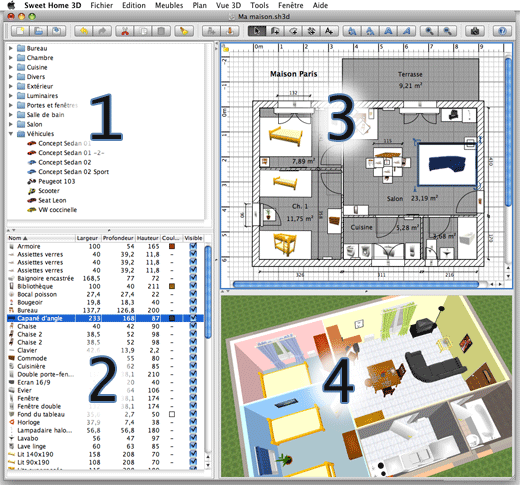
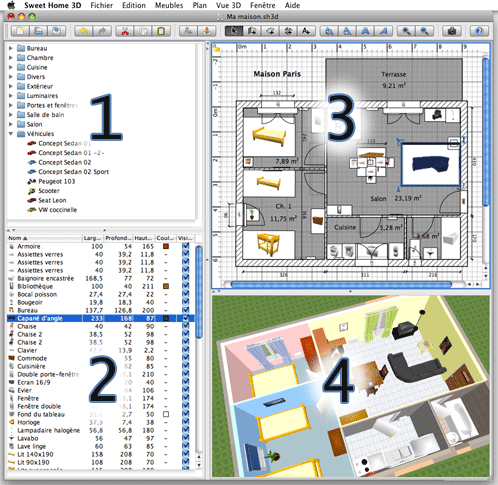
Removed delete from tool bar
git-svn-id: https://svn.code.sf.net/p/sweethome3d/code/trunk@2017 03e323e1-6c6c-46a5-9f71-c4ce5d8c6204

diff --git a/SweetHome3D/src/com/eteks/sweethome3d/viewcontroller/resources/help/cs/ui.html b/SweetHome3D/src/com/eteks/sweethome3d/viewcontroller/resources/help/cs/ui.html
@@ -26,7 +26,7 @@
           <table width="100%" border="0" cellspacing="0" cellpadding="3">
             <tr>
               <td><p>Program Sweet Home 3D disponuje čtyřmi pracovními okny, jejichž velikost si můžete nastavit dle vlastní potřeby, a které jsou popsány níže.</p>
-                <p align="center"><img src="../images/sweethome3dZones.png" alt="User Interface parts" width="520" height="485"></p></td>
+                <p align="center"><img src="../images/sweethome3dZones.png" alt="User Interface parts" width="498" height="485"></p></td>
             </tr>
           </table>
           <div id="taskbox">

diff --git a/SweetHome3D/src/com/eteks/sweethome3d/viewcontroller/resources/help/it/ui.html b/SweetHome3D/src/com/eteks/sweethome3d/viewcontroller/resources/help/it/ui.html
@@ -29,7 +29,7 @@
 			<TD>
 				<P>La finestra di Sweet Home 3D mostra il design interno di una singola casa, ed è divisa in quattro pannelli (i riquadri rettangolare
 			  che vedi nella finestra) liberamente ridimensionabili, descritti come segue.</P>
-				<P ALIGN=CENTER><IMG SRC="../images/sweethome3dZones.png" ALT="User Interface parts" ALIGN=BOTTOM WIDTH=520 HEIGHT=485 BORDER=0></P>
+				<P ALIGN=CENTER><IMG SRC="../images/sweethome3dZones.png" ALT="User Interface parts" ALIGN=BOTTOM WIDTH=498 HEIGHT=485 BORDER=0></P>
 		  </TD>
 		</TR>
 	</TABLE>

diff --git a/SweetHome3D/src/com/eteks/sweethome3d/viewcontroller/resources/help/fr/ui.html b/SweetHome3D/src/com/eteks/sweethome3d/viewcontroller/resources/help/fr/ui.html
@@ -29,7 +29,7 @@
                     3D
 permet d'&eacute;diter l'am&eacute;nagement int&eacute;rieur d'un logement et est divis&eacute;e en quatre panneaux redimensionnables,
 d&eacute;crits comme suit.</p>
-                <p align="center"><img src="../images/sweethome3dZones.png" alt="User Interface parts" width="520" height="485"></p></td>
+                <p align="center"><img src="../images/sweethome3dZones.png" alt="User Interface parts" width="498" height="485"></p></td>
             </tr>
           </table>
           <div id="taskbox">

diff --git a/SweetHome3D/src/com/eteks/sweethome3d/viewcontroller/resources/help/en/ui.html b/SweetHome3D/src/com/eteks/sweethome3d/viewcontroller/resources/help/en/ui.html
@@ -29,7 +29,7 @@
                     3D
 window edits the interior design of a home and is divided in four resizable
                     panes, described as following.</p>
-                <p align="center"><img src="../images/sweethome3dZones.png" alt="User Interface parts" width="520" height="485"></p></td>
+                <p align="center"><img src="../images/sweethome3dZones.png" alt="User Interface parts" width="498" height="485"></p></td>
             </tr>
           </table>
           <div id="taskbox">

diff --git a/SweetHome3D/src/com/eteks/sweethome3d/viewcontroller/resources/help/pl/ui.html b/SweetHome3D/src/com/eteks/sweethome3d/viewcontroller/resources/help/pl/ui.html
@@ -82,7 +82,7 @@ Ich funkcje zosta&#322;y opisane poni&#380;ej.</p>
 
 
       
-      <p align="center"><img src="../images/sweethome3dZones.png" alt="User Interface parts" height="485" width="520"></p>
+      <p align="center"><img src="../images/sweethome3dZones.png" alt="User Interface parts" height="485" width="498"></p>
 
 
       </td>
